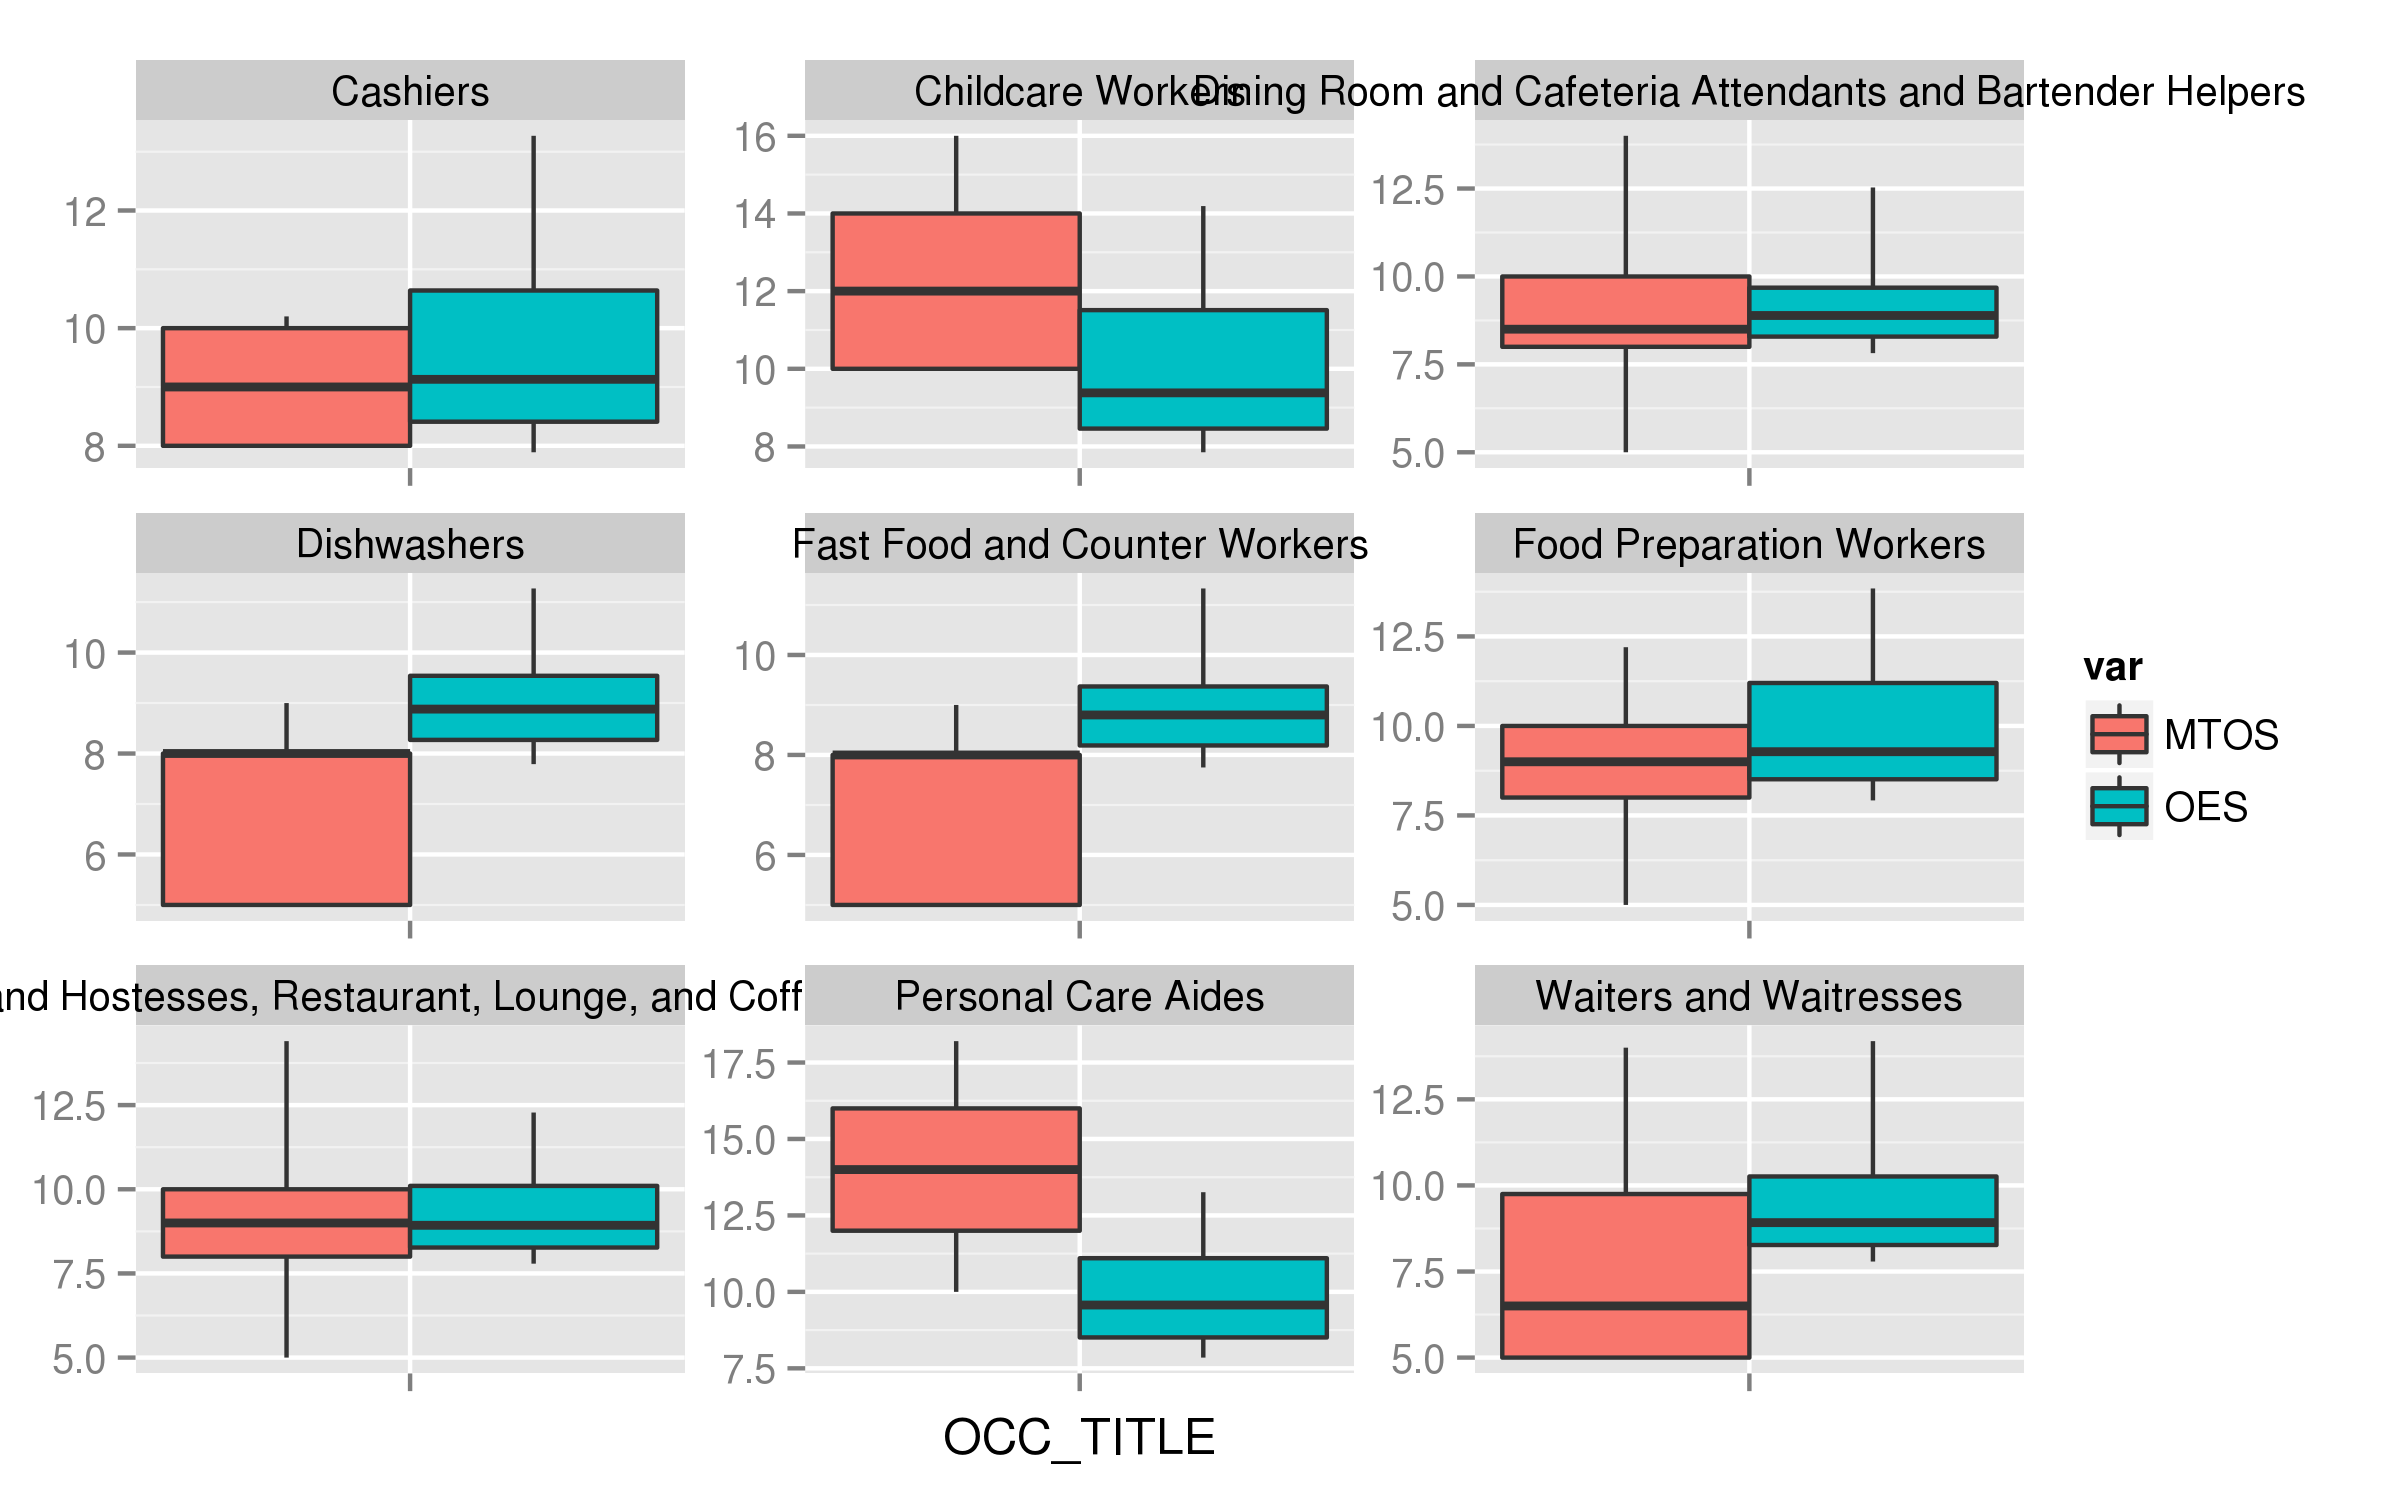
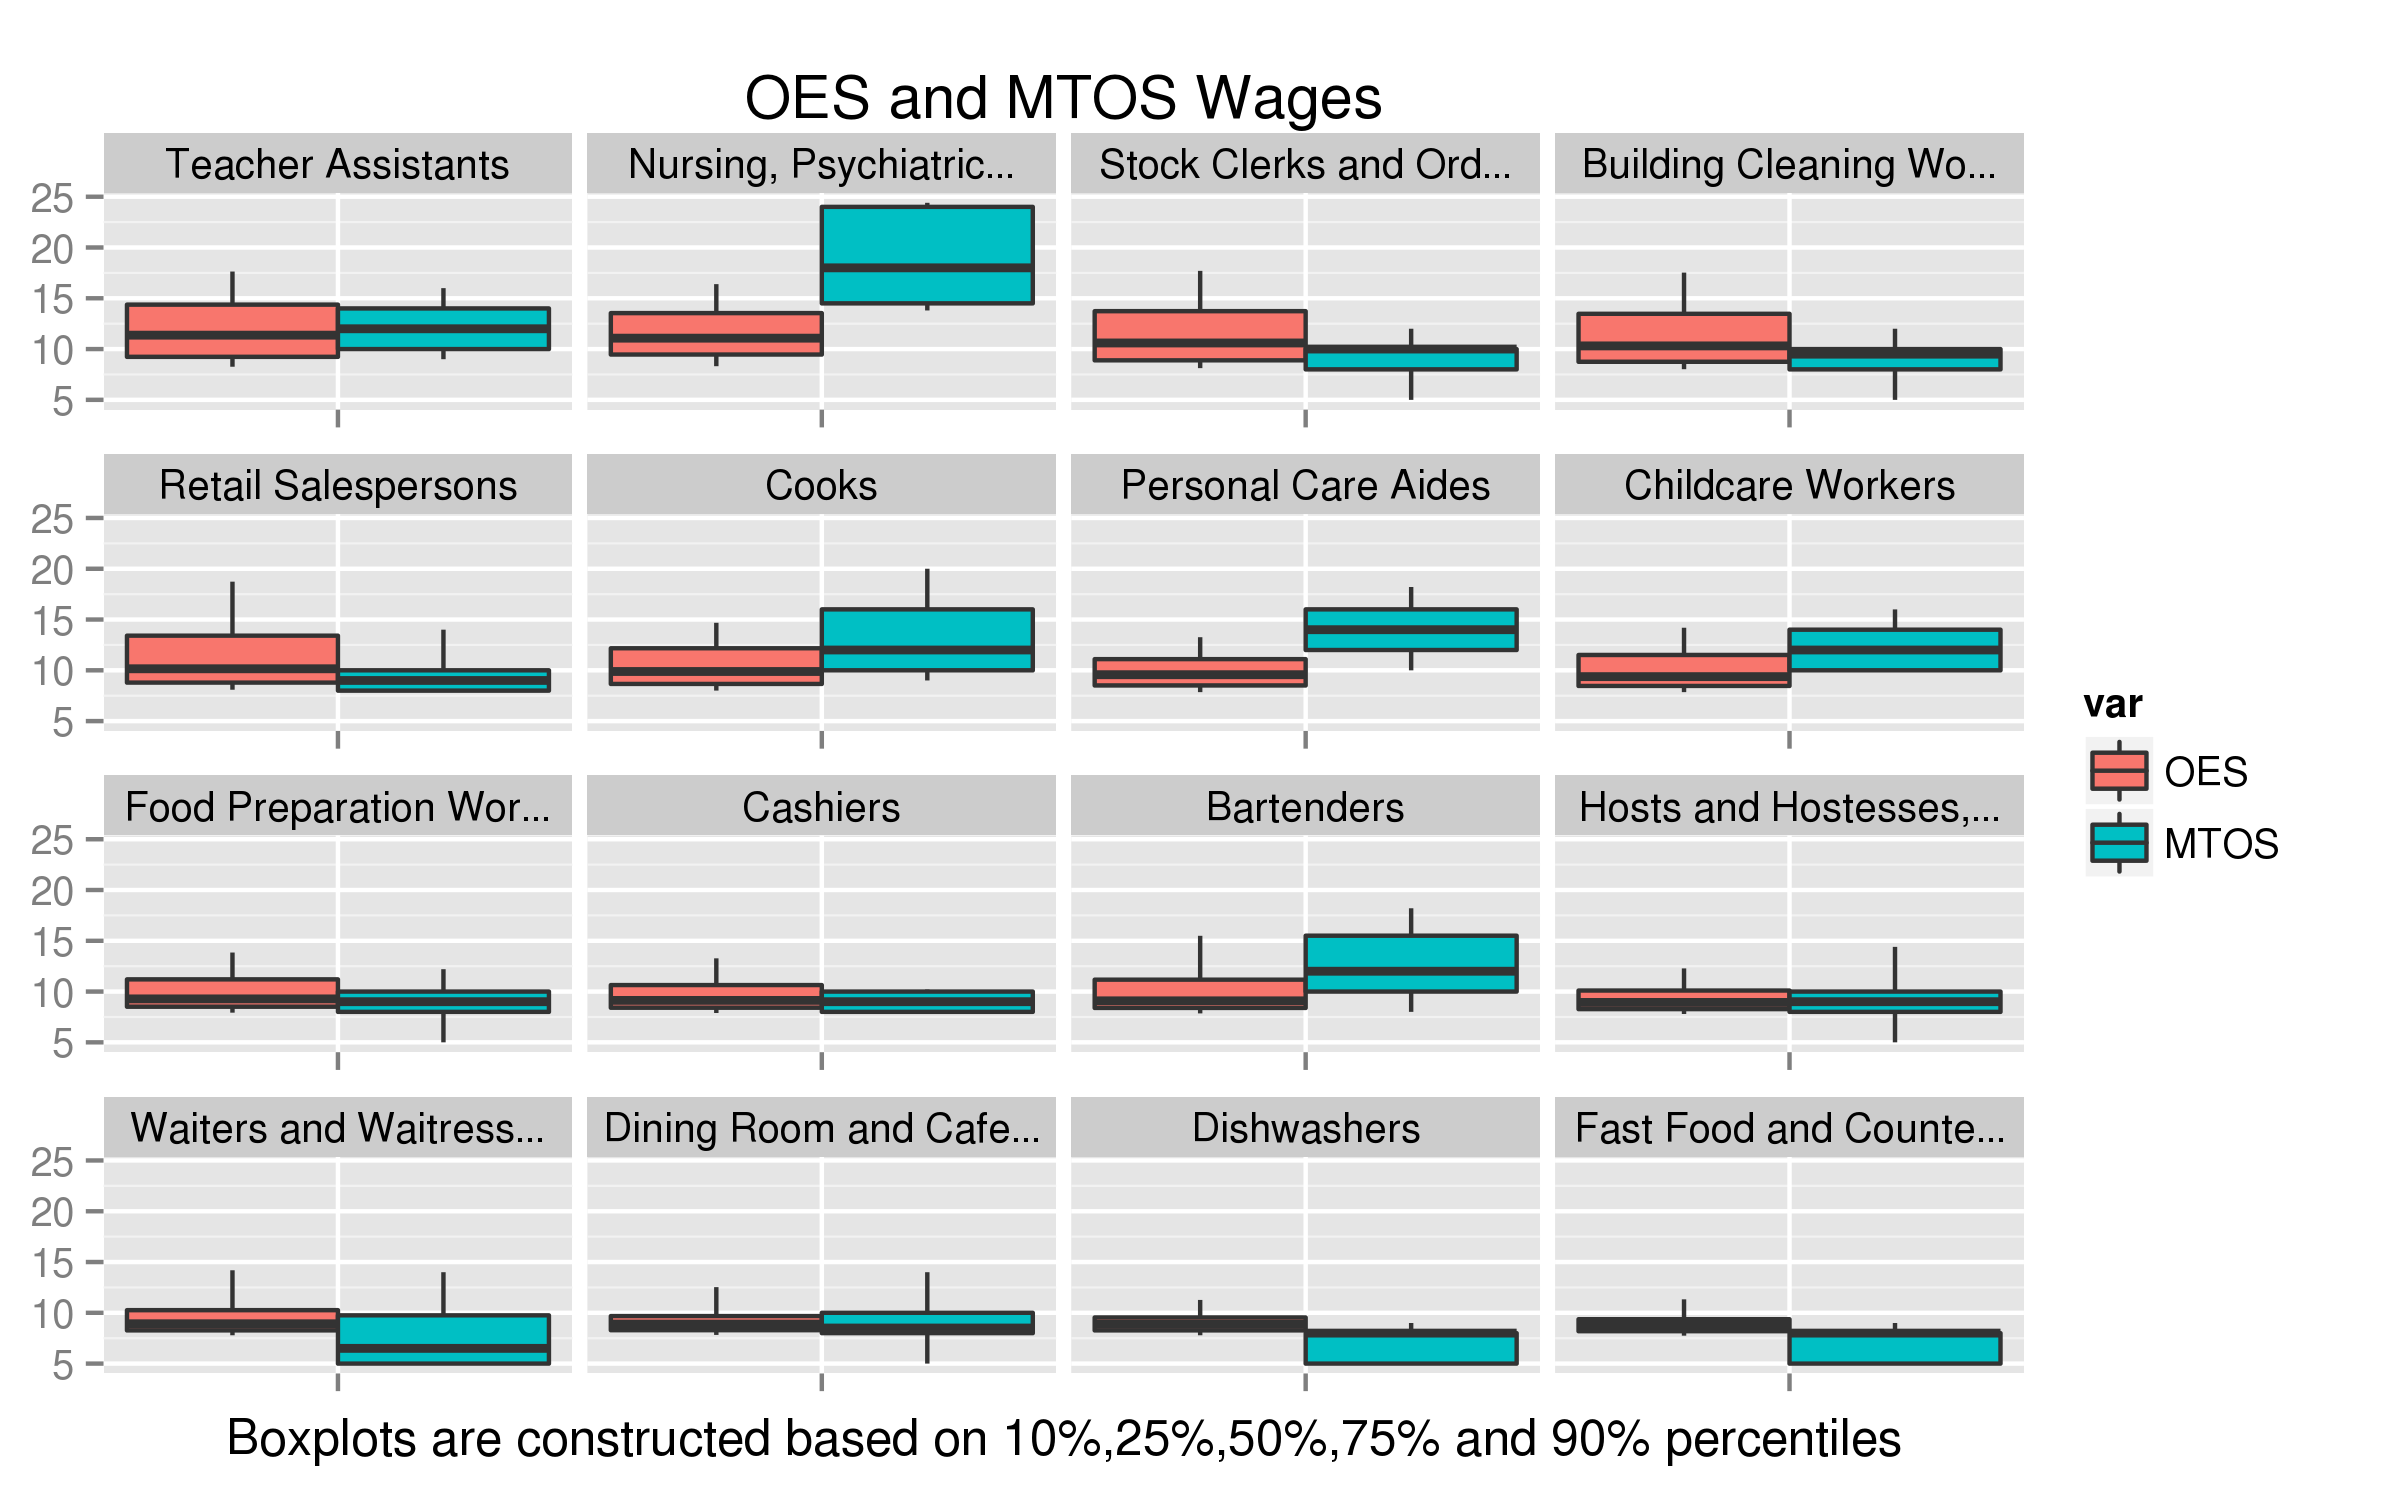
Changes: 1) Data clean-up: annual wages converted to hourly for jobs with annual contracts 2) Data clean-up: Inf or '#' wages converted to 90.0 and 187200 for hourly and annual data respectively 3) Custom wrapper fuction to generate 'wage boxplots': facets are ordered by OES median wage

diff --git a/writeup/tables/rse1.tex b/writeup/tables/rse1.tex
@@ -1,5 +1,5 @@
 % latex table generated in R 3.0.2 by xtable 1.7-1 package
-% Sun Nov 10 03:30:08 2013
+% Tue Nov 12 04:22:34 2013
 \begin{table}[ht]
 \centering
 \begin{tabular}{rll}

diff --git a/writeup/tables/rse2.tex b/writeup/tables/rse2.tex
@@ -1,5 +1,5 @@
 % latex table generated in R 3.0.2 by xtable 1.7-1 package
-% Sun Nov 10 03:30:09 2013
+% Tue Nov 12 04:22:47 2013
 \begin{table}[ht]
 \centering
 \begin{tabular}{rll}
